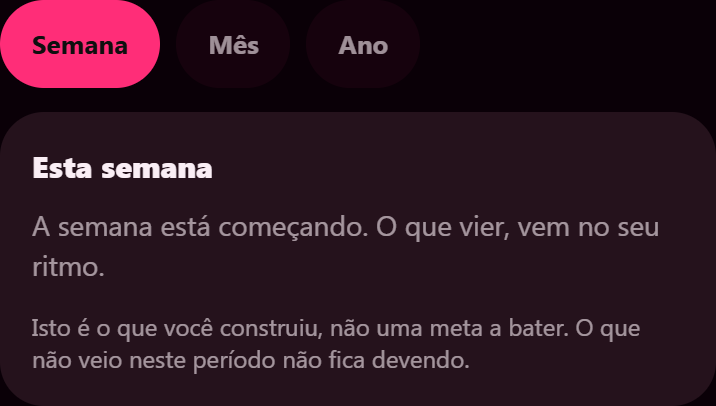
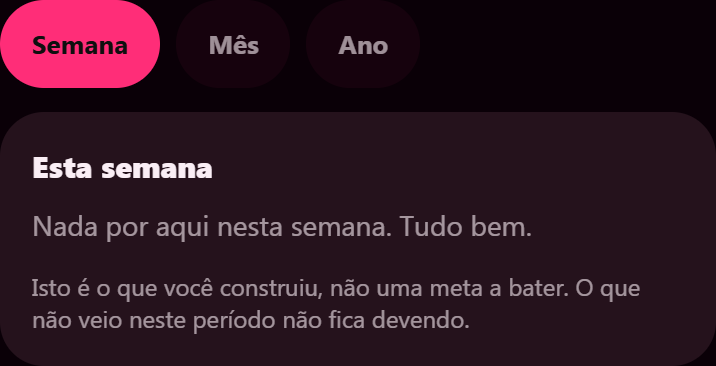
fix(jornada): ajustes da revisao da J14
1. A comparacao com o periodo anterior so aparece quando o fechado e
   mesmo o imediatamente anterior. O servidor guarda uma linha fechada
   por tipo, e ela e o ultimo periodo COM ATIVIDADE -- quem ficou cinco
   semanas fora veria "na semana passada" sobre uma semana de mais de um
   mes atras. ehPeriodoAnterior() confere o calendario (semana: sete dias
   antes; mes: mes anterior; ano: ano anterior), com a data montada por
   partes, nunca por new Date(string). Fora isso, a linha some. A
   comparacao tambem some quando o periodo corrente esta vazio: comparar
   um periodo vazio com um cheio e cobranca.

2. As frases de periodo vazio nao afirmam mais o momento do periodo.
   "A semana esta comecando" fica falsa no domingo, justo quando um
   periodo vazio e mais provavel. Agora e "Nada por aqui nesta semana.
   Tudo bem."

3. Tres guardas que faltavam no teste, no estilo das que ja existiam: a
   JornadaScreen importa e monta o resumo; cada aba troca para o proprio
   tipo; o ResumoPeriodo decide pelo periodoVazio e mostra RESUMO_VAZIO.
   Mais: a linha de comparacao nao tem seta nem sinal, nada fora de
   components/jornada importa os resumos, e ehPeriodoAnterior e testado
   inclusive na virada de ano.

4. Prettier nos arquivos tocados.

Prints refeitos: no mes e no ano a comparacao agora some, porque os
dados de laboratorio nao sao do periodo imediatamente anterior.

diff --git a/tests/jornada/resumos.test.ts b/tests/jornada/resumos.test.ts
@@ -1,7 +1,11 @@
 import { describe, expect, it } from "vitest";
 import { readFileSync, readdirSync } from "node:fs";
 import { join } from "node:path";
-import type { EstadoJornada, Periodo, TipoPeriodo } from "../../lib/jornada/estado";
+import type {
+  EstadoJornada,
+  Periodo,
+  TipoPeriodo,
+} from "../../lib/jornada/estado";
 import { TIPOS_PERIODO } from "../../lib/jornada/estado";
 import {
   acoesFeitas,
@@ -9,6 +13,7 @@ import {
   chaveDoRitmo,
   contador,
   doEstado,
+  ehPeriodoAnterior,
   periodoVazio,
 } from "../../components/jornada/resumos/leitura";
 import {
@@ -74,7 +79,9 @@ describe("J14 — os resumos só leem do hook", () => {
   it("nenhum arquivo importa Supabase, cliente ou cache", () => {
     for (const f of FONTES) {
       const src = semComentarios(read(f));
-      expect(src, f).not.toMatch(/@\/lib\/supabase|from "\.\.\/\.\.\/lib\/supabase"/);
+      expect(src, f).not.toMatch(
+        /@\/lib\/supabase|from "\.\.\/\.\.\/lib\/supabase"/
+      );
       expect(src, f).not.toMatch(/lib\/jornada\/(cliente|cache)/);
     }
   });
@@ -90,7 +97,9 @@ describe("J14 — os resumos só leem do hook", () => {
   it("nenhum resumo decide Glow, estágio, limite ou selo", () => {
     for (const f of FONTES) {
       const src = semComentarios(read(f));
-      expect(src, f).not.toMatch(/\b(3000|1200|1500|glowTotal|estagio|selos)\b/);
+      expect(src, f).not.toMatch(
+        /\b(3000|1200|1500|glowTotal|estagio|selos)\b/
+      );
     }
   });
 });
@@ -115,6 +124,8 @@ describe("J14 — texto e moeda só em textos.ts", () => {
         const dentro = s.slice(1, -1);
         if (dentro.startsWith("var(--")) return false; // token de cor
         if (/^(@\/|\.{1,2}\/)/.test(dentro)) return false; // caminho de módulo
+        // vão entre dois atributos JSX na mesma linha (' aria-x='), não é literal
+        if (/^\s/.test(dentro) || /=$/.test(dentro)) return false;
         // classe utilitária: só minúsculas, dígitos e pontuação de classe
         return !/^[a-z0-9_ :[\]()/.%-]+$/.test(dentro);
       });
@@ -149,7 +160,9 @@ describe("J14 — só contadores que jornada_periodos guarda", () => {
   it("nenhuma chave com cara de diário é lida", () => {
     for (const f of FONTES) {
       const src = semComentarios(read(f));
-      expect(src, f).not.toMatch(/\bdias\b\s*:|"dia"|historico|por_dia|diario/i);
+      expect(src, f).not.toMatch(
+        /\bdias\b\s*:|"dia"|historico|por_dia|diario/i
+      );
     }
   });
 
@@ -188,9 +201,22 @@ describe("J14 — período vazio não quebra e não cobra", () => {
     expect(periodoVazio(doEstado(e, "ano").atual, "ano")).toBe(true);
   });
 
-  it("o último fechado chega quando existe", () => {
-    const e = estadoCom("mes", periodo({ glow: 10 }), periodo({ glow: 80 }));
+  it("o último fechado chega quando é mesmo o mês anterior", () => {
+    const e = estadoCom(
+      "mes",
+      { inicio: "2026-10-01", contadores: { glow: 10 } },
+      { inicio: "2026-09-01", contadores: { glow: 80 } }
+    );
     expect(doEstado(e, "mes").fechado?.contadores.glow).toBe(80);
+  });
+
+  it("um fechado antigo não vira comparação", () => {
+    const e = estadoCom(
+      "mes",
+      { inicio: "2026-10-01", contadores: { glow: 10 } },
+      { inicio: "2026-03-01", contadores: { glow: 80 } }
+    );
+    expect(doEstado(e, "mes").fechado).toBeNull();
   });
 });
 
@@ -223,5 +249,128 @@ describe("J14 — os textos contam sem cobrar", () => {
   it("a comparação com o período anterior é só informativa", () => {
     expect(resumoAnterior(80, "semana")).toContain("Na semana passada");
     expect(resumoAnterior(80, "semana")).toContain("80");
+  });
+});
+
+describe("J14 — a tela abre o resumo, e as abas trocam", () => {
+  const tela = read("components/jornada/JornadaScreen.tsx");
+  const container = read(`${DIR}/JornadaResumos.tsx`);
+
+  it("a JornadaScreen importa e monta o resumo", () => {
+    expect(tela).toMatch(
+      /^import \{ JornadaResumos \} from "\.\/resumos\/JornadaResumos";$/m
+    );
+    expect(tela).toMatch(/<JornadaResumos\s+userId=\{userId\}\s*\/>/);
+  });
+
+  it("cada aba troca para o próprio período, não para um fixo", () => {
+    expect(container).toMatch(/onClick=\{\(\) => setAba\(tipo\)\}/);
+    expect(container).not.toMatch(/setAba\("(semana|mes|ano)"\)/);
+  });
+
+  it("o container percorre os três tipos, sem lista própria", () => {
+    expect(container).toMatch(/TIPOS_PERIODO\.map/);
+  });
+});
+
+describe("J14 — o componente trata o vazio, não só a leitura", () => {
+  const comp = read(`${DIR}/ResumoPeriodo.tsx`);
+
+  it("ResumoPeriodo decide pelo periodoVazio e mostra RESUMO_VAZIO", () => {
+    expect(comp).toMatch(/periodoVazio\(atual, tipo\)/);
+    expect(comp).toMatch(/RESUMO_VAZIO\[tipo\]/);
+    // o ramo do vazio existe de verdade: nada de Glow quando está vazio
+    expect(comp).toMatch(/\{vazio \? \(/);
+  });
+
+  it("o Glow do período só aparece fora do vazio", () => {
+    const depoisDoVazio = comp.slice(comp.indexOf("{vazio ? ("));
+    const ramoCheio = depoisDoVazio.slice(depoisDoVazio.indexOf(") : ("));
+    expect(ramoCheio).toMatch(/resumoGlow\(/);
+  });
+});
+
+describe("J14 — a comparação não cobra e não mente", () => {
+  it("só compara com o período imediatamente anterior", () => {
+    const semana = periodo({ glow: 10 });
+    const anterior = { inicio: "2026-09-28", contadores: { glow: 80 } };
+    const antiga = { inicio: "2026-08-24", contadores: { glow: 80 } };
+    const corrente = { inicio: "2026-10-05", contadores: { glow: 10 } };
+    expect(ehPeriodoAnterior(corrente, anterior, "semana")).toBe(true);
+    expect(ehPeriodoAnterior(corrente, antiga, "semana")).toBe(false);
+    expect(ehPeriodoAnterior(corrente, null, "semana")).toBe(false);
+    expect(semana.inicio).toBe("2026-10-05");
+  });
+
+  it("mês e ano conferem o calendário, não sete dias", () => {
+    const mes = { inicio: "2026-10-01", contadores: { glow: 10 } };
+    expect(
+      ehPeriodoAnterior(mes, { inicio: "2026-09-01", contadores: {} }, "mes")
+    ).toBe(true);
+    expect(
+      ehPeriodoAnterior(mes, { inicio: "2026-07-01", contadores: {} }, "mes")
+    ).toBe(false);
+    const ano = { inicio: "2026-01-01", contadores: { glow: 10 } };
+    expect(
+      ehPeriodoAnterior(ano, { inicio: "2025-01-01", contadores: {} }, "ano")
+    ).toBe(true);
+    expect(
+      ehPeriodoAnterior(ano, { inicio: "2023-01-01", contadores: {} }, "ano")
+    ).toBe(false);
+  });
+
+  it("a virada de ano não quebra a semana nem o mês", () => {
+    expect(
+      ehPeriodoAnterior(
+        { inicio: "2027-01-04", contadores: { glow: 1 } },
+        { inicio: "2026-12-28", contadores: {} },
+        "semana"
+      )
+    ).toBe(true);
+    expect(
+      ehPeriodoAnterior(
+        { inicio: "2027-01-01", contadores: { glow: 1 } },
+        { inicio: "2026-12-01", contadores: {} },
+        "mes"
+      )
+    ).toBe(true);
+  });
+
+  it("período corrente vazio não ganha comparação (seria cobrança)", () => {
+    const e = estadoCom("semana", periodo({}), {
+      inicio: "2026-09-28",
+      contadores: { glow: 80 },
+    });
+    expect(doEstado(e, "semana").fechado).toBeNull();
+  });
+
+  it("a linha de comparação não tem seta, sinal nem julgamento", () => {
+    const texto = resumoAnterior(80, "semana");
+    expect(texto).not.toMatch(/[▲▼↑↓+−-]|mais|menos|melhor|pior|caiu|subiu/i);
+  });
+});
+
+describe("J14 — discrição: o resumo não vaza da tela da Jornada", () => {
+  it("nada fora de components/jornada importa os resumos", () => {
+    const raizes = ["app", "components", "lib"];
+    const pendentes = raizes.map((r) => join(ROOT, r));
+    const culpados: string[] = [];
+    while (pendentes.length > 0) {
+      const dir = pendentes.pop() as string;
+      for (const nome of readdirSync(dir, { withFileTypes: true })) {
+        const caminho = join(dir, nome.name);
+        if (nome.isDirectory()) {
+          if (nome.name !== "node_modules") pendentes.push(caminho);
+          continue;
+        }
+        if (!/\.(ts|tsx)$/.test(nome.name)) continue;
+        const rel = caminho.slice(ROOT.length + 1).replace(/\\/g, "/");
+        if (rel.startsWith("components/jornada/")) continue;
+        if (/from "[^"]*resumos\//.test(readFileSync(caminho, "utf-8"))) {
+          culpados.push(rel);
+        }
+      }
+    }
+    expect(culpados).toEqual([]);
   });
 });

diff --git a/components/jornada/resumos/leitura.ts b/components/jornada/resumos/leitura.ts
@@ -50,17 +50,59 @@ export function periodoVazio(
   );
 }
 
+/** "AAAA-MM-DD" → Date local, por partes (nunca `new Date(string)`, que vira UTC). */
+function doIso(iso: string): Date | null {
+  const m = iso.match(/^(\d{4})-(\d{2})-(\d{2})$/);
+  return m ? new Date(Number(m[1]), Number(m[2]) - 1, Number(m[3])) : null;
+}
+
+const iguais = (a: Date, b: Date) =>
+  a.getFullYear() === b.getFullYear() &&
+  a.getMonth() === b.getMonth() &&
+  a.getDate() === b.getDate();
+
 /**
- * O par (corrente, último fechado) de um tipo de período, na forma que o
- * servidor manda (J10): `corrente` sempre existe; `ultimoFechado` só depois
- * que um período daquele tipo virou.
+ * Se o período fechado é mesmo o IMEDIATAMENTE anterior ao corrente.
+ *
+ * O servidor guarda uma linha fechada por tipo (`primary key (user_id, tipo,
+ * fechado)`), e ela é o último período em que ela teve atividade -- não
+ * necessariamente o anterior. Quem ficou cinco semanas fora veria "na semana
+ * passada" sobre uma semana de mais de um mês atrás. É conferência de
+ * calendário, não de Glow: fora isso, a comparação some.
+ */
+export function ehPeriodoAnterior(
+  corrente: Periodo,
+  fechado: Periodo | null,
+  tipo: TipoPeriodo
+): boolean {
+  if (!fechado) return false;
+  const inicio = doIso(corrente.inicio);
+  const antes = doIso(fechado.inicio);
+  if (!inicio || !antes) return false;
+  if (tipo === "semana") {
+    const esperado = new Date(inicio);
+    esperado.setDate(esperado.getDate() - 7);
+    return iguais(antes, esperado);
+  }
+  if (tipo === "mes") {
+    const esperado = new Date(inicio.getFullYear(), inicio.getMonth() - 1, 1);
+    return iguais(antes, esperado);
+  }
+  return iguais(antes, new Date(inicio.getFullYear() - 1, 0, 1));
+}
+
+/**
+ * O par (corrente, anterior) de um tipo de período, na forma que o servidor
+ * manda (J10). O `fechado` só vem quando é mesmo o período anterior E o
+ * corrente tem alguma coisa: comparar com um período vazio vira cobrança.
  */
 export function doEstado(
   estado: EstadoJornada,
   tipo: TipoPeriodo
 ): { atual: Periodo; fechado: Periodo | null } {
-  return {
-    atual: estado.periodos.corrente[tipo],
-    fechado: estado.periodos.ultimoFechado[tipo] ?? null,
-  };
+  const atual = estado.periodos.corrente[tipo];
+  const guardado = estado.periodos.ultimoFechado[tipo] ?? null;
+  const comparavel =
+    !periodoVazio(atual, tipo) && ehPeriodoAnterior(atual, guardado, tipo);
+  return { atual, fechado: comparavel ? guardado : null };
 }

diff --git a/lib/jornada/textos.ts b/lib/jornada/textos.ts
@@ -566,9 +566,9 @@ export function resumoAnterior(glow: number, tipo: TipoPeriodo): string {
 
 /** Período sem nada ainda. Sem cobrança: vazio é só vazio. */
 export const RESUMO_VAZIO: Record<TipoPeriodo, string> = {
-  semana: "A semana está começando. O que vier, vem no seu ritmo.",
-  mes: "O mês está no começo. Não precisa de pressa.",
-  ano: "O ano mal começou. Tem tempo de sobra.",
+  semana: "Nada por aqui nesta semana. Tudo bem.",
+  mes: "Nada por aqui neste mês. Tudo bem.",
+  ano: "Nada por aqui neste ano. Tudo bem.",
 };
 
 /** Rodapé do resumo: o tom do pacote, sem cobrança. */

diff --git a/components/jornada/resumos/JornadaResumos.tsx b/components/jornada/resumos/JornadaResumos.tsx
@@ -27,11 +27,7 @@ export function JornadaResumos({ userId }: Props) {
 
   return (
     <div className="flex flex-col gap-3" data-jornada-resumos>
-      <div
-        role="tablist"
-        aria-orientation="horizontal"
-        className="flex gap-2"
-      >
+      <div role="tablist" aria-orientation="horizontal" className="flex gap-2">
         {TIPOS_PERIODO.map((tipo) => {
           const ativa = tipo === aba;
           return (
